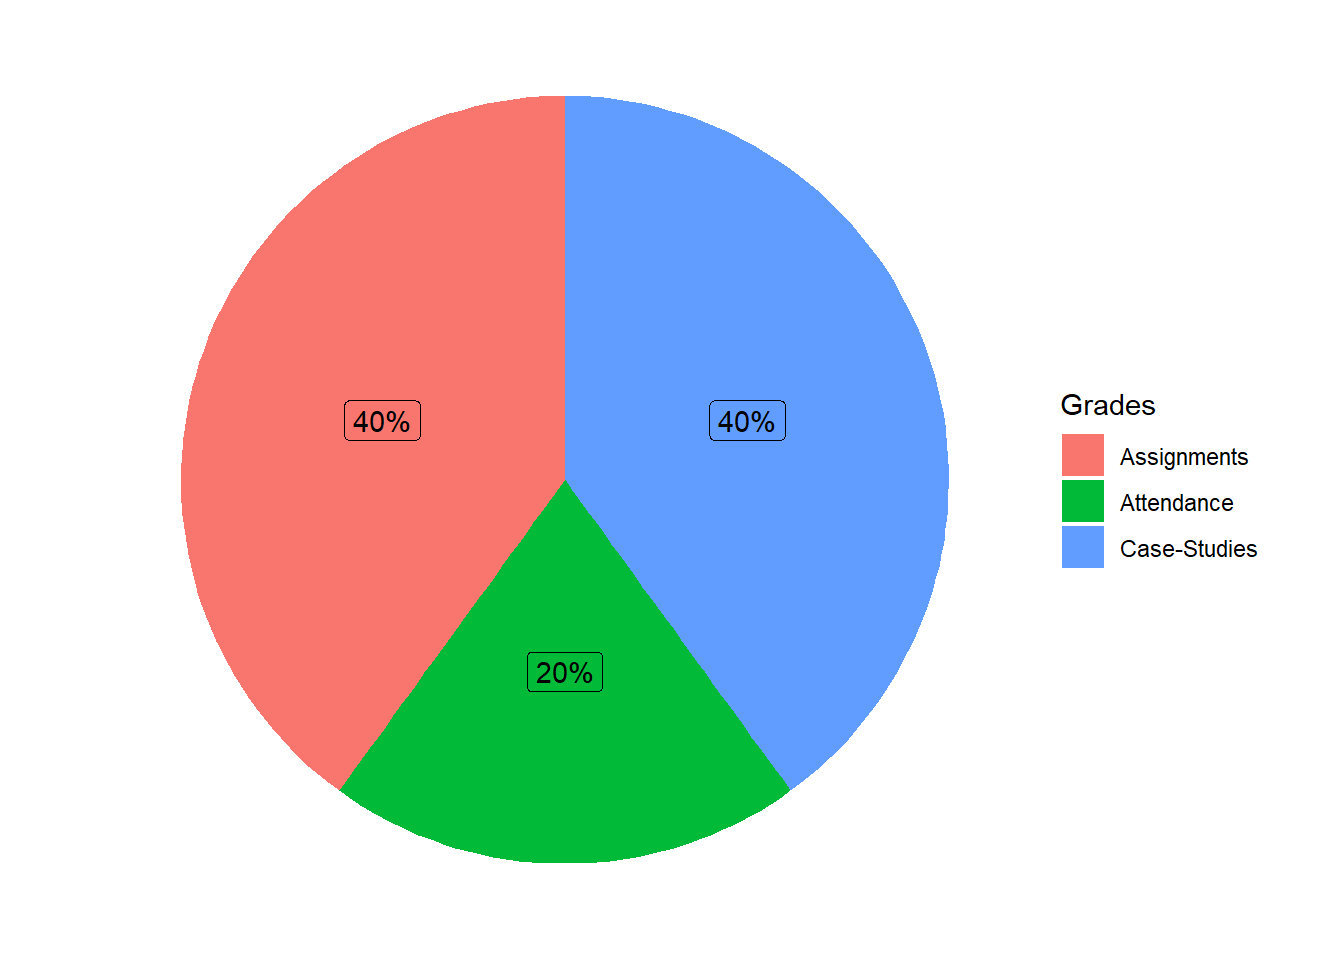
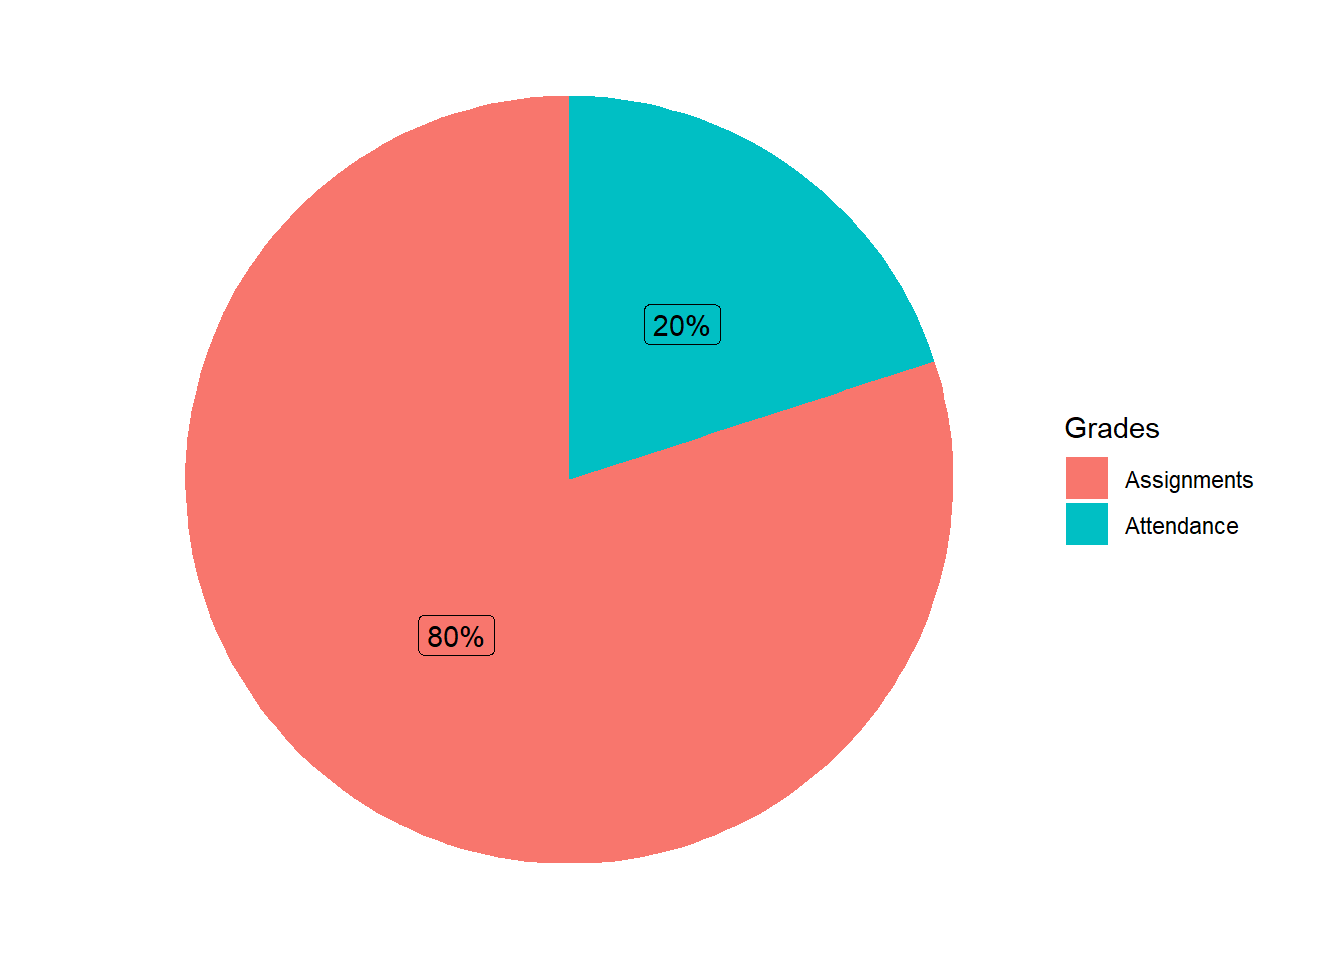
s

diff --git a/syllabus.html b/syllabus.html
@@ -135,7 +135,7 @@ ul.task-list li input[type="checkbox"] {
 </div>
 </div>
 <ul>
-<li><p><em>Assignments and Case-studies</em>: Tentatively, the assignments and case studies will be done during class where you can ask questions.</p></li>
+<li><p><em>Assignments</em>: Tentatively, the assignments and case studies will be done during class where you can ask questions.</p></li>
 <li><p><em>Attendance</em>: The class have totally 15 meetings. Each time you attend a meeting, your total grade will be increased by 1.5%.</p></li>
 </ul>
 </section>
